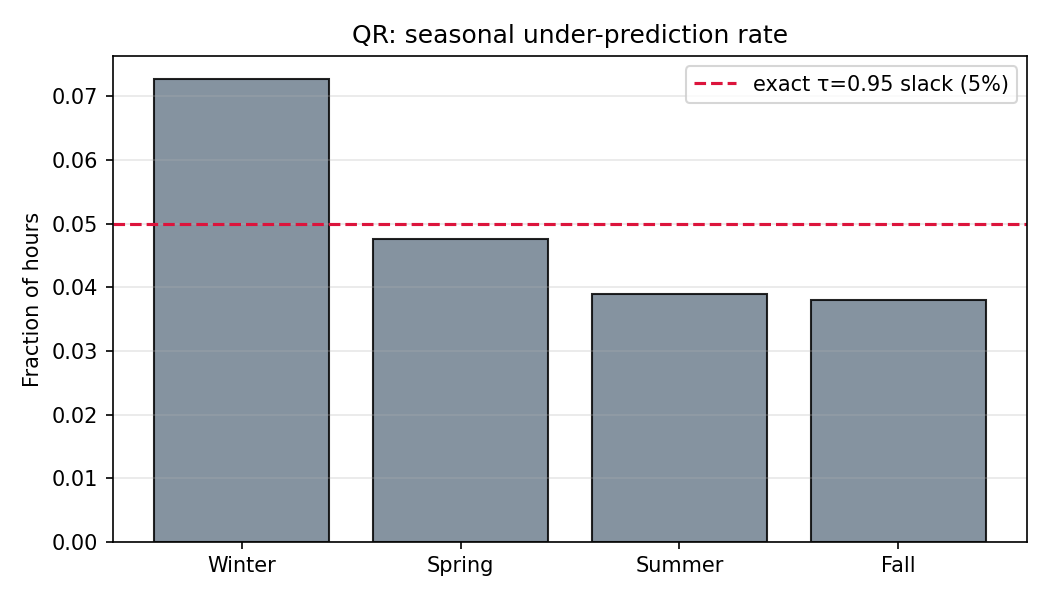
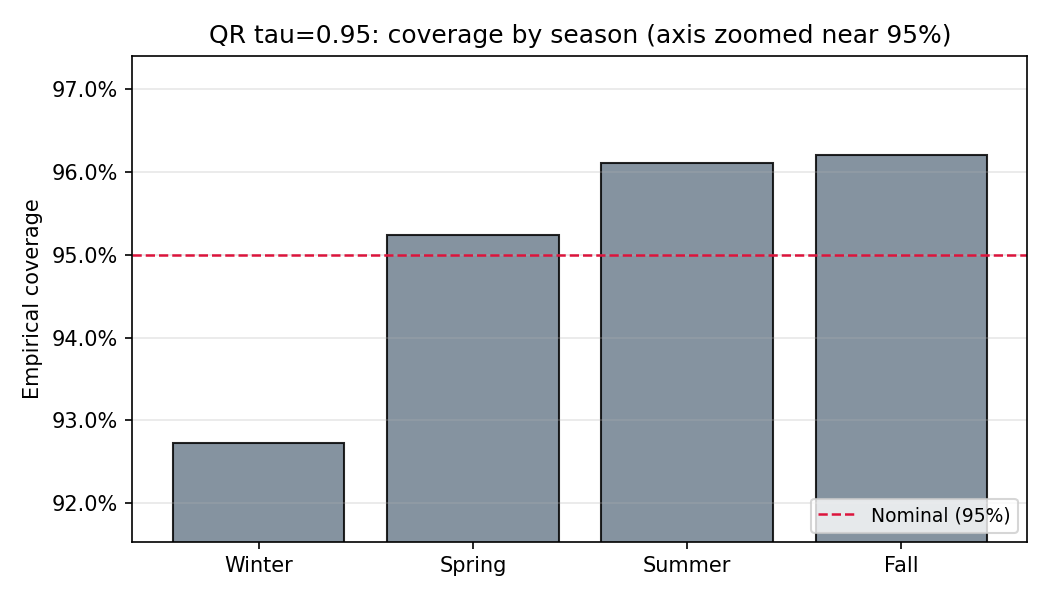
update seasonal split plot

diff --git a/plot_progress_presentation.py b/plot_progress_presentation.py
@@ -18,6 +18,7 @@ from pathlib import Path
 from typing import Any, Dict, List, Mapping, Optional, Tuple
 
 import matplotlib.pyplot as plt
+from matplotlib.ticker import PercentFormatter
 import numpy as np
 import pandas as pd
 from pandas.tseries.holiday import USFederalHolidayCalendar
@@ -512,30 +513,46 @@ def plot_timeseries_actual_pred_fill(
 def plot_seasonal_failure_rates(
     df: pd.DataFrame,
     ax: Optional[plt.Axes] = None,
-    title: str = "Share of hours with actual > pred (by season)",
+    title: str = "QR tau=0.95: empirical coverage by season",
+    promised_q: float = 0.95,
+    y_pad: float = 0.012,
 ) -> plt.Axes:
+    """
+    Bar chart of seasonal **coverage** ``P(actual <= pred)`` with y-axis
+    zoomed near nominal ``promised_q`` (default 95%) so winter vs other
+    seasons are easy to compare.
+    """
     if ax is None:
         _, ax = plt.subplots(figsize=(7, 4))
     seas = season_for_index(df.index)
-    rates = []
-    labels = []
+    covs: List[float] = []
+    labels: List[str] = []
     for name in SEASONS:
         mask = seas == name
         sub = df.loc[mask]
         if len(sub) == 0:
             continue
-        fail = (sub["load_mw"] > sub["pred"]).mean()
-        rates.append(fail)
+        cov = float((sub["load_mw"] <= sub["pred"]).mean())
+        covs.append(cov)
         labels.append(name)
-    tgt = 1.0 - 0.95
     x = np.arange(len(labels))
-    ax.bar(x, rates, color="slategray", edgecolor="black", alpha=0.85)
-    ax.axhline(tgt, color="crimson", ls="--", label="exact τ=0.95 slack (5%)")
+    ax.bar(x, covs, color="slategray", edgecolor="black", alpha=0.85)
+    ax.axhline(
+        promised_q,
+        color="crimson",
+        ls="--",
+        lw=1.2,
+        label=f"Nominal ({promised_q:.0%})",
+    )
     ax.set_xticks(x)
     ax.set_xticklabels(labels)
-    ax.set_ylabel("Fraction of hours")
+    ax.set_ylabel("Empirical coverage")
     ax.set_title(title)
-    ax.legend()
+    lo = min(covs) - y_pad
+    hi = max(covs) + y_pad
+    ax.set_ylim(lo, hi)
+    ax.yaxis.set_major_formatter(PercentFormatter(1.0))
+    ax.legend(loc="lower right", fontsize=9)
     ax.grid(axis="y", alpha=0.3)
     return ax
 
@@ -750,7 +767,12 @@ def build_all_figures(
 
     # 4) Seasonal failure histogram
     fig, ax = plt.subplots(figsize=(7, 4))
-    plot_seasonal_failure_rates(qr_df, ax=ax, title="QR: seasonal under-prediction rate")
+    plot_seasonal_failure_rates(
+        qr_df,
+        ax=ax,
+        title="QR tau=0.95: coverage by season (axis zoomed near 95%)",
+        promised_q=promised_q,
+    )
     fig.tight_layout()
     fig.savefig(out_dir / "qr_seasonal_failure_rate.png", dpi=150)
     plt.close(fig)
